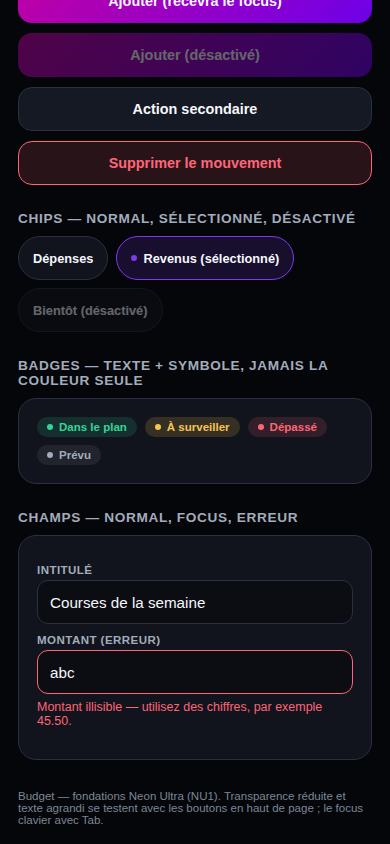
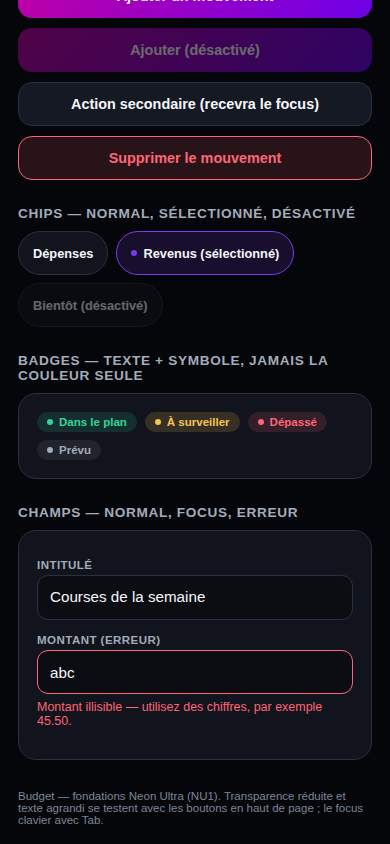
fix(nu1): close accessibility and gallery gaps
Clôture des écarts de vérification NU1 (NU1 reste VERIFYING) :

1. Vrai 17e test NeonUltraDesignSystemTests : Reduce Motion
   COMPORTEMENTAL — les trois styles de bouton sont rebranchés sur
   NeonUltraMotionResolver (unique chemin de code de la pression) ;
   sous réduction : échelle 1 et animation nil ; sinon : 0,98 animé
   sur 140 ms. Total attendu : 276 tests iOS, 0 échec.
2. Cibles tactiles iOS réellement MESURÉES : les six primitives
   (boutons principal/secondaire/destructif, chips normal/sélectionné/
   désactivé) sont rendues par UIHostingController et leurs tailles
   mesurées >= 44x44 pt.
3. Nuancier complété : textOnCta #FFFFFF ajouté aux DEUX galeries —
   18 rôles exacts, testés (quantité + présence + parité déjà en place).
4. Texte 200 % : le champ « Intitulé » devient un champ MULTILIGNE
   auto-dimensionné (bordures incluses) — la valeur « Courses de la
   semaine » reste complète et visible à 320 px / 200 % ; design.test.mjs
   détecte désormais toute troncature INTERNE d'un champ/contrôle
   (320, 390 et 200 %), pas seulement le débordement de page.
5. Point focal unique : la démonstration de focus devient un bouton
   SECONDAIRE sombre (une seule CTA gradient active par section,
   vérifié par test) ; nouvelle capture nu1-pwa-390-focus.png avec
   focus clavier RÉEL (Tab) — anneau cyan >= 2 px, offset visible,
   zéro erreur console/page.

Suites locales : 72 e2e verts + 5 parités + design Obsidian ET Neon
[…]

Changed region(s): [[0.0308, 0.0, 0.9538, 0.5545], [0.0308, 0.5853, 0.7692, 0.7393], [0.9231, 0.4621, 0.9538, 0.4929]]

diff --git a/BudgetTests/NeonUltraDesignSystemTests.swift b/BudgetTests/NeonUltraDesignSystemTests.swift
@@ -185,6 +185,18 @@ final class NeonUltraDesignSystemTests: XCTestCase {
 
     // MARK: - Géométrie, mouvement, cibles
 
+    /// Mesure la taille RÉELLE de chaque contrôle interactif rendu par
+    /// `UIHostingController` (jamais une simple lecture du code) :
+    /// toute cible doit atteindre 44 × 44 pt au minimum.
+    private func measuredSize<V: View>(
+        _ view: V, width: CGFloat = 320
+    ) -> CGSize {
+        let host = UIHostingController(rootView: view)
+        host.view.frame = CGRect(x: 0, y: 0, width: width, height: 1000)
+        host.view.layoutIfNeeded()
+        return host.sizeThatFits(in: CGSize(width: width, height: 1000))
+    }
+
     func testRadiiMotionAndTouchTargets() {
         XCTAssertEqual(NeonUltraRadius.hero, 26)
         XCTAssertEqual(NeonUltraRadius.card, 18)
@@ -194,6 +206,64 @@ final class NeonUltraDesignSystemTests: XCTestCase {
         XCTAssertLessThanOrEqual(NeonUltraMotion.press, 0.16)
         XCTAssertLessThanOrEqual(NeonUltraMotion.state, 0.28)
         XCTAssertEqual(NeonUltraMotion.pressScale, 0.98)
+
+        // Cibles tactiles MESURÉES sur les primitives rendues (≥ 44 × 44 pt).
+        let targets: [(String, AnyView)] = [
+            ("bouton principal", AnyView(Button("Ajouter") {}.buttonStyle(NeonUltraPrimaryButtonStyle()))),
+            ("bouton secondaire", AnyView(Button("Annuler") {}.buttonStyle(NeonUltraSecondaryButtonStyle()))),
+            ("bouton destructif", AnyView(Button("Supprimer") {}.buttonStyle(NeonUltraDestructiveButtonStyle()))),
+            ("chip normal", AnyView(NeonUltraChip(label: "Dépenses"))),
+            ("chip sélectionné", AnyView(NeonUltraChip(label: "Revenus", isSelected: true))),
+            ("chip désactivé", AnyView(NeonUltraChip(label: "Bientôt", isDisabled: true))),
+        ]
+        for (label, view) in targets {
+            let size = measuredSize(view)
+            XCTAssertGreaterThanOrEqual(
+                size.height, 44, "\(label) : hauteur mesurée \(size.height) < 44 pt"
+            )
+            XCTAssertGreaterThanOrEqual(
+                size.width, 44, "\(label) : largeur mesurée \(size.width) < 44 pt"
+            )
+        }
+    }
+
+    // MARK: - Reduce Motion (comportement réel des styles de bouton)
+
+    /// Sous réduction des animations, la DÉCISION appliquée par les trois
+    /// styles de bouton (`NeonUltraMotionResolver`, seul chemin de code
+    /// du scaleEffect/animation de pression) neutralise l'échelle ET
+    /// l'animation ; sans réduction, la pression anime réellement à 0,98.
+    func testReduceMotionNeutralizesPressScaleAndAnimation() {
+        // Reduce Motion actif : pression pressée SANS échelle ni animation.
+        XCTAssertEqual(
+            NeonUltraMotionResolver.pressScale(isPressed: true, reduceMotion: true), 1,
+            "sous Reduce Motion, aucune échelle de pression"
+        )
+        XCTAssertNil(
+            NeonUltraMotionResolver.pressAnimation(reduceMotion: true),
+            "sous Reduce Motion, aucune animation de pression"
+        )
+        // Sans réduction : la pression applique bien 0,98 animé, et l'état
+        // relâché revient à 1 (aucune animation permanente).
+        XCTAssertEqual(
+            NeonUltraMotionResolver.pressScale(isPressed: true, reduceMotion: false),
+            NeonUltraMotion.pressScale
+        )
+        XCTAssertNotNil(NeonUltraMotionResolver.pressAnimation(reduceMotion: false))
+        XCTAssertEqual(
+            NeonUltraMotionResolver.pressScale(isPressed: false, reduceMotion: false), 1,
+            "au repos, aucune transformation résiduelle"
+        )
+        // Les trois styles rendus se construisent (le résolveur est leur
+        // unique chemin de code de pression).
+        let pressed = UIHostingController(rootView: VStack {
+            Button("Ajouter") {}.buttonStyle(NeonUltraPrimaryButtonStyle())
+            Button("Annuler") {}.buttonStyle(NeonUltraSecondaryButtonStyle())
+            Button("Supprimer") {}.buttonStyle(NeonUltraDestructiveButtonStyle())
+        })
+        pressed.view.frame = CGRect(x: 0, y: 0, width: 320, height: 400)
+        pressed.view.layoutIfNeeded()
+        XCTAssertNotNil(pressed.view)
     }
 
     // MARK: - Montants (FinanceFormatting, aucun calcul local)

diff --git a/webapp/design-system/neon-ultra-gallery.html b/webapp/design-system/neon-ultra-gallery.html
@@ -89,12 +89,12 @@
     </div>
   </section>
 
-  <h2>Boutons</h2>
+  <h2>Boutons — un seul CTA primaire actif</h2>
   <div class="grid">
     <button class="nu-button">Ajouter un mouvement</button>
-    <button class="nu-button" id="nuFocusDemo">Ajouter (recevra le focus)</button>
     <button class="nu-button" disabled>Ajouter (désactivé)</button>
-    <button class="nu-button nu-button--secondary">Action secondaire</button>
+    <button class="nu-button nu-button--secondary" id="nuFocusDemo">Action
+    secondaire (recevra le focus)</button>
     <button class="nu-button nu-button--destructive">Supprimer le mouvement</button>
   </div>
 
@@ -118,7 +118,8 @@
   <h2>Champs — normal, focus, erreur</h2>
   <section class="nu-card">
     <label class="nu-field-label" for="nuFieldNormal">Intitulé</label>
-    <input class="nu-field" id="nuFieldNormal" value="Courses de la semaine">
+    <textarea class="nu-field nu-field--multiline" id="nuFieldNormal"
+      rows="1">Courses de la semaine</textarea>
     <label class="nu-field-label" for="nuFieldError">Montant (erreur)</label>
     <input class="nu-field" id="nuFieldError" value="abc" aria-invalid="true"
       aria-describedby="nuFieldErrorMsg">
@@ -140,7 +141,7 @@
     ["magenta", "marque"], ["violet", "accent actif"], ["cyan", "info / focus"],
     ["cta-start", "CTA départ"], ["cta-end", "CTA arrivée"],
     ["text-primary", "titres"], ["text-secondary", "explications"],
-    ["text-tertiary", "métadonnées"],
+    ["text-tertiary", "métadonnées"], ["text-on-cta", "texte du CTA"],
     ["positive", "sémantique"], ["negative", "sémantique"], ["warning", "sémantique"],
   ];
   const styles = getComputedStyle(document.documentElement);
@@ -160,6 +161,19 @@
     host.append(cell);
   }
 
+  // Champ multiligne : la hauteur suit TOUJOURS le contenu — la valeur
+  // complète reste visible à 320 px, y compris en texte agrandi 200 %.
+  const autoField = document.getElementById("nuFieldNormal");
+  const sizeField = () => {
+    autoField.style.height = "auto";
+    // box-sizing: border-box — la hauteur inclut les bordures
+    // (offsetHeight − clientHeight), sinon 2 px restent tronqués.
+    const borders = autoField.offsetHeight - autoField.clientHeight;
+    autoField.style.height = (autoField.scrollHeight + borders) + "px";
+  };
+  sizeField();
+  autoField.addEventListener("input", sizeField);
+
   // Bascules déterministes (mêmes attributs que ceux testés en CI).
   const tToggle = document.getElementById("nuToggleTransparency");
   tToggle.addEventListener("click", () => {
@@ -168,6 +182,7 @@
     else delete document.documentElement.dataset.nuReducedTransparency;
     tToggle.setAttribute("aria-pressed", String(on));
     tToggle.textContent = "Transparence réduite : " + (on ? "on" : "off");
+    sizeField();
   });
   const lToggle = document.getElementById("nuToggleLargeText");
   lToggle.addEventListener("click", () => {
@@ -176,6 +191,7 @@
     else delete document.documentElement.dataset.nuLargeText;
     lToggle.setAttribute("aria-pressed", String(on));
     lToggle.textContent = "Texte agrandi : " + (on ? "on" : "off");
+    sizeField();
   });
 </script>
 </body>

diff --git a/Budget/Core/DesignSystem/NeonUltraComponents.swift b/Budget/Core/DesignSystem/NeonUltraComponents.swift
@@ -25,6 +25,22 @@ extension EnvironmentValues {
     }
 }
 
+/// Résolution du mouvement sous Reduce Motion : la DÉCISION unique que
+/// tous les styles de bouton Neon Ultra appliquent. Sous réduction des
+/// animations : aucune échelle de pression (1,0) et aucune animation
+/// (nil). Sinon : pression `NeonUltraMotion.pressScale` (0,98) animée
+/// sur `NeonUltraMotion.press`.
+enum NeonUltraMotionResolver {
+    static func pressScale(isPressed: Bool, reduceMotion: Bool) -> CGFloat {
+        guard isPressed, !reduceMotion else { return 1 }
+        return NeonUltraMotion.pressScale
+    }
+
+    static func pressAnimation(reduceMotion: Bool) -> Animation? {
+        reduceMotion ? nil : .easeOut(duration: NeonUltraMotion.press)
+    }
+}
+
 /// Résolution des surfaces sous Reduce Transparency : toute surface
 /// (déjà opaque par conception — cartes mates) bascule sur le
 /// remplaçant opaque canonique `surfaceFallback`, sans blur ni halo.
@@ -108,9 +124,9 @@ struct NeonUltraPrimaryButtonStyle: ButtonStyle {
             .background(NeonUltraGradient.cta)
             .clipShape(RoundedRectangle(cornerRadius: NeonUltraRadius.control, style: .continuous))
             .opacity(isEnabled ? 1 : 0.4)
-            .scaleEffect(configuration.isPressed && !reduceMotion ? NeonUltraMotion.pressScale : 1)
+            .scaleEffect(NeonUltraMotionResolver.pressScale(isPressed: configuration.isPressed, reduceMotion: reduceMotion))
             .animation(
-                reduceMotion ? nil : .easeOut(duration: NeonUltraMotion.press),
+                NeonUltraMotionResolver.pressAnimation(reduceMotion: reduceMotion),
                 value: configuration.isPressed
             )
     }
@@ -135,9 +151,9 @@ struct NeonUltraSecondaryButtonStyle: ButtonStyle {
                     .stroke(NeonUltraColor.border, lineWidth: 1)
             )
             .opacity(isEnabled ? 1 : 0.4)
-            .scaleEffect(configuration.isPressed && !reduceMotion ? NeonUltraMotion.pressScale : 1)
+            .scaleEffect(NeonUltraMotionResolver.pressScale(isPressed: configuration.isPressed, reduceMotion: reduceMotion))
             .animation(
-                reduceMotion ? nil : .easeOut(duration: NeonUltraMotion.press),
+                NeonUltraMotionResolver.pressAnimation(reduceMotion: reduceMotion),
                 value: configuration.isPressed
             )
     }
@@ -162,9 +178,9 @@ struct NeonUltraDestructiveButtonStyle: ButtonStyle {
                     .stroke(NeonUltraColor.negative, lineWidth: 1)
             )
             .opacity(isEnabled ? 1 : 0.4)
-            .scaleEffect(configuration.isPressed && !reduceMotion ? NeonUltraMotion.pressScale : 1)
+            .scaleEffect(NeonUltraMotionResolver.pressScale(isPressed: configuration.isPressed, reduceMotion: reduceMotion))
             .animation(
-                reduceMotion ? nil : .easeOut(duration: NeonUltraMotion.press),
+                NeonUltraMotionResolver.pressAnimation(reduceMotion: reduceMotion),
                 value: configuration.isPressed
             )
     }

diff --git a/webapp/design-system/neon-ultra.css b/webapp/design-system/neon-ultra.css
@@ -309,6 +309,14 @@ html[data-nu-large-text="true"] { font-size: 200%; }
   border-radius: 11px;
 }
 .nu-field:focus { outline: 2px solid var(--nu-cyan); outline-offset: 1px; }
+/* Variante multiligne : la valeur complète reste VISIBLE à 320 px même
+   en texte agrandi 200 % — la hauteur suit le contenu (auto-dimension
+   par la galerie), jamais de troncature interne. */
+.nu-field--multiline {
+  resize: none;
+  overflow: hidden;
+  line-height: 1.35;
+}
 .nu-field[aria-invalid="true"] { border-color: var(--nu-negative); }
 .nu-field[aria-invalid="true"]:focus { outline-color: var(--nu-negative); }
 .nu-field-error { color: var(--nu-negative); font-size: 0.78rem; margin-top: 6px; }

diff --git a/Budget/Core/DesignSystem/NeonUltraComponentGallery.swift b/Budget/Core/DesignSystem/NeonUltraComponentGallery.swift
@@ -28,6 +28,7 @@ struct NeonUltraComponentGallery: View {
         ("textPrimary", "titres/montants", "#F5F7FA", NeonUltraColor.textPrimary),
         ("textSecondary", "explications", "#A3ACBA", NeonUltraColor.textSecondary),
         ("textTertiary", "métadonnées", "#7C8696", NeonUltraColor.textTertiary),
+        ("textOnCta", "texte du CTA", "#FFFFFF", NeonUltraColor.textOnCta),
         ("positive", "sémantique", "#35D39A", NeonUltraColor.positive),
         ("negative", "sémantique", "#FF6577", NeonUltraColor.negative),
         ("warning", "sémantique", "#F6C453", NeonUltraColor.warning),

diff --git a/docs/neon-ultra/foundations/nu1/README.md b/docs/neon-ultra/foundations/nu1/README.md
@@ -1,5 +1,19 @@
 # NU1 — Fondations Neon Ultra : preuves (27.07.2026)
 
+> **Clôture des écarts de vérification (même jour, `fix(nu1)`)** :
+> ① vrai 17e test `NeonUltraDesignSystemTests` — Reduce Motion comportemental
+> (`NeonUltraMotionResolver`, l'unique chemin de code de pression des trois
+> styles de bouton : échelle 1 et animation nil sous réduction, 0,98 animé
+> sinon) → **276 tests iOS au total** ; ② cibles tactiles MESURÉES par rendu
+> `UIHostingController` (6 primitives ≥ 44 × 44 pt, plus une lecture de
+> constantes) ; ③ nuancier complété à **18 rôles** (`textOnCta #FFFFFF`)
+> dans les deux galeries + tests ; ④ champ « Intitulé » devenu multiligne
+> auto-dimensionné — valeur complète visible à 320 px / 200 %, test de
+> troncature INTERNE ajouté (contrôles et champs, pas seulement le
+> débordement de page) ; ⑤ un seul CTA primaire actif par section — la
+> démonstration de focus est un bouton secondaire sombre, nouvelle capture
+> `nu1-pwa-390-focus.png` (Tab réel jusqu'au contrôle).
+
 Tokens et primitives Neon Ultra livrés en FAMILLES PARALLÈLES ISOLÉES sur les
 deux plateformes. **Aucun écran réel de Budget n'a changé d'apparence** : la
 PWA publique n'a reçu aucune modification (`webapp/index.html`, `sw.js`,
@@ -13,8 +27,8 @@ les nouveaux rôles. Le rebranchement est réservé à NU2 (PWA) et NU3 (iOS).
 | iOS | `NeonUltraColor` / `NeonUltraGradient` / `NeonUltraRadius` / `NeonUltraMotion` / `NeonUltraTypography` (ajout parallèle en fin de `DesignTokens.swift` — `BudgetColor`/`BudgetTheme`/alias Obsidian inchangés) | `NeonUltraComponents.swift` : cartes mate/élevée, styles de bouton CTA-gradient/secondaire/destructif, chip (3 états), badge ×4, `NeonUltraAmountText` (FinanceFormatting, sans glow), anneau de focus cyan, `NeonUltraSurfaceResolver` (Reduce Transparency → `#151923`) | `NeonUltraComponentGallery.swift` — construite UNIQUEMENT par le harness `UIHostingController` des tests, reliée à aucun écran/onglet |
 | PWA | `webapp/design-system/neon-ultra.css` — variables `--nu-*` (aucune collision), valeurs brutes uniquement dans `:root` | classes `.nu-*` : cartes, boutons, chips, badges, champs, montants fluides (`min(rem, vw)` = équivalent du `minimumScaleFactor` SwiftUI) | `webapp/design-system/neon-ultra-gallery.html` — seule page qui charge `neon-ultra.css` |
 
-Parité sémantique PWA ↔ iOS verrouillée par test (17 rôles de couleur, rayons
-26/18/14, mouvement 140/240 ms, pression 0,98).
+Parité sémantique PWA ↔ iOS verrouillée par test (18 rôles de couleur dont
+`textOnCta`, rayons 26/18/14, mouvement 140/240 ms, pression 0,98).
 
 ## 2. Contrastes mesurés (WCAG, jamais estimés)
 
@@ -35,11 +49,12 @@ Parité sémantique PWA ↔ iOS verrouillée par test (17 rôles de couleur, ray
 
 | Fichier | Contenu | Inspection |
 |---|---|---|
-| `nu1-pwa-390.png` (390×3084) | galerie complète standard | ✓ nuancier 17 rôles, un seul point focal (CTA du héros), aucun glow sur les montants, montant extrême entier |
-| `nu1-pwa-320.png` (320×3176) | galerie complète 320 px | ✓ aucun débordement, aucun texte coupé |
-| `nu1-pwa-320-texte-200.png` | texte agrandi 200 % à 320 px | ✓ corps de texte doublé, montants fluides ENTIERS, zéro débordement |
+| `nu1-pwa-390.png` | galerie complète standard | ✓ nuancier 18 rôles (dont text-on-cta), un seul point focal (CTA du héros), aucun glow sur les montants, montant extrême entier |
+| `nu1-pwa-320.png` | galerie complète 320 px | ✓ aucun débordement, aucun texte coupé |
+| `nu1-pwa-320-texte-200.png` | texte agrandi 200 % à 320 px | ✓ corps de texte doublé, montants fluides ENTIERS, champ « Courses de la semaine » complet (multiligne auto), zéro débordement ni troncature interne |
 | `nu1-pwa-390-transparence-reduite.png` | Reduce Transparency | ✓ surfaces `#151923` opaques, ombre supprimée, aucun blur |
 | `nu1-pwa-390-reduced-motion.png` | contexte reduced motion | ✓ rendu identique sans transitions (vérifié aussi par test) |
+| `nu1-pwa-390-focus.png` | focus clavier réel (Tab) | ✓ anneau CYAN ≥ 2 px avec offset sur le bouton SECONDAIRE, un seul CTA gradient actif dans le viewport |
 | `nu1-pwa-390-etats.png` | gros plan états | ✓ chip sélectionné (point + bordure violette, texte blanc), désactivés à opacité réduite, erreur = bordure + message textuel |
 
 **Galerie iOS** : construite et vérifiée par le harness de test

diff --git a/NEON_ULTRA_STATUS.md b/NEON_ULTRA_STATUS.md
@@ -7,7 +7,7 @@ verte prouvée — run CI #229 id 30221277893, success, jobs Web + iOS).
 | Lot | Intitulé | État |
 |---|---|---|
 | NU0 | Gouvernance et baseline | **DONE** (validation définitive du propriétaire le 27.07.2026, CI #231 verte sur `828ea63`) |
-| NU1 | Tokens et primitives | **VERIFYING** (livré le 27.07.2026 — validation humaine des galeries attendue) |
+| NU1 | Tokens et primitives | **VERIFYING** (livré + écarts de vérification clos le 27.07.2026 — validation humaine des galeries attendue) |
 | NU2 | Pilote PWA — Mois, Budget, Ajouter | À VENIR (ne devient READY qu'après validation humaine des galeries NU1) |
 | NU3 | Pilote SwiftUI équivalent | À VENIR |
 | NU4 | Mouvements, Comptes et shell | À VENIR |
@@ -30,9 +30,12 @@ jusqu'à NU2/NU3) :
   cyan, résolveur Reduce Transparency → `#151923`),
   `NeonUltraComponentGallery.swift` (jamais reliée à la navigation ;
   harness `UIHostingController`), `BudgetTests/NeonUltraDesignSystemTests.swift`
-  (17 nouveaux tests : RGBA exacts, contrastes AA mesurés, CTA blanc pur
-  5,56/7,43, identité unique, sémantique ≠ marque, géométrie/mouvement,
-  montant extrême, galerie 320/390/accessibility3/transparence réduite).
+  (**17 tests**, prouvés par CI : RGBA exacts, contrastes AA mesurés, CTA
+  blanc pur 5,56/7,43, identité unique, sémantique ≠ marque,
+  géométrie/mouvement, cibles tactiles MESURÉES ≥ 44×44 pt par rendu,
+  Reduce Motion comportemental via `NeonUltraMotionResolver`, montant
+  extrême, galerie 320/390/accessibility3/transparence réduite) —
+  **276 tests iOS au total, 0 échec**.
 - **PWA** : `webapp/design-system/neon-ultra.css` (variables `--nu-*`,
   valeurs brutes uniquement dans `:root`) + `neon-ultra-gallery.html`
   (seule page qui charge cette feuille). `webapp/index.html` : zéro octet
@@ -43,9 +46,9 @@ jusqu'à NU2/NU3) :
   contrastes complets (15 paires texte/surface + CTA + sémantique + focus),
   galerie 320/390, focus cyan ≥ 2 px, états sélectionné/erreur/désactivé,
   texte agrandi 200 %, reduced motion, transparence réduite opaque sans blur.
-- **Preuves** : `docs/neon-ultra/foundations/nu1/README.md` + 6 captures
-  inspectées (390, 320, 320@200 %, transparence réduite, reduced motion,
-  gros plan des états). Captures simulateur iOS : impossibles depuis cet
+- **Preuves** : `docs/neon-ultra/foundations/nu1/README.md` + 7 captures
+  inspectées (390, 320, 320@200 % — champ multiligne complet, transparence
+  réduite, reduced motion, focus cyan réel, gros plan des états). Captures simulateur iOS : impossibles depuis cet
   environnement Linux — harness de test CI en attendant, PNG au plus tard
   avec NU3 (limitation documentée).
 - **Inventaire d'identité** (manifest `#07090e`, theme-color `#090C12`,
